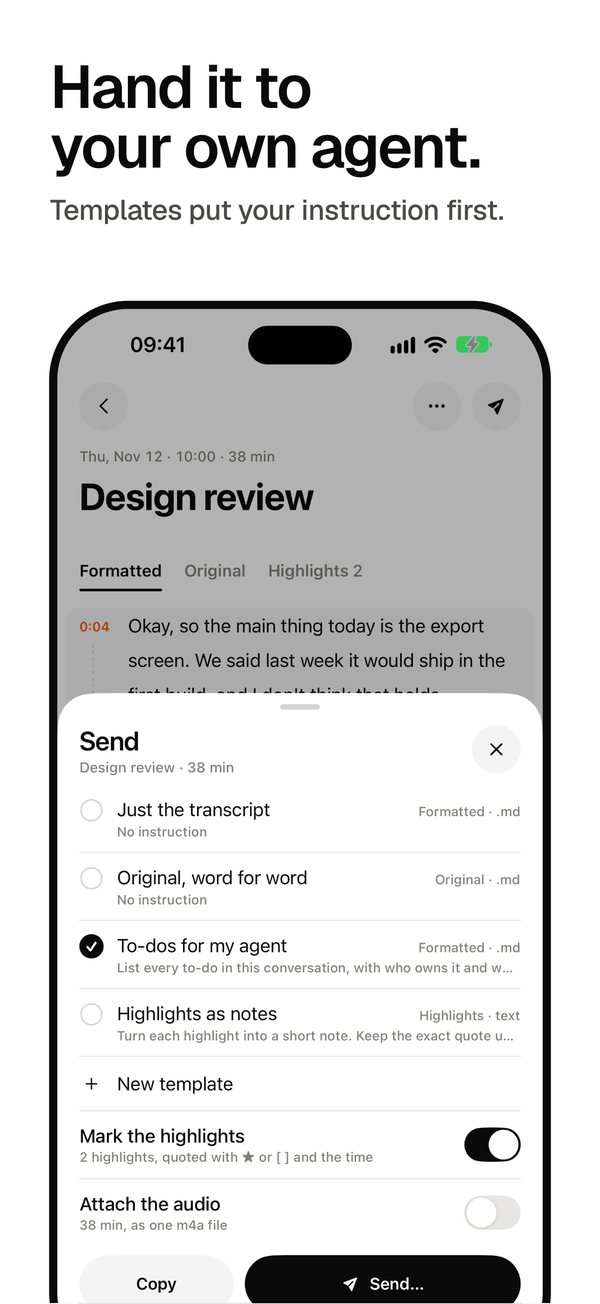
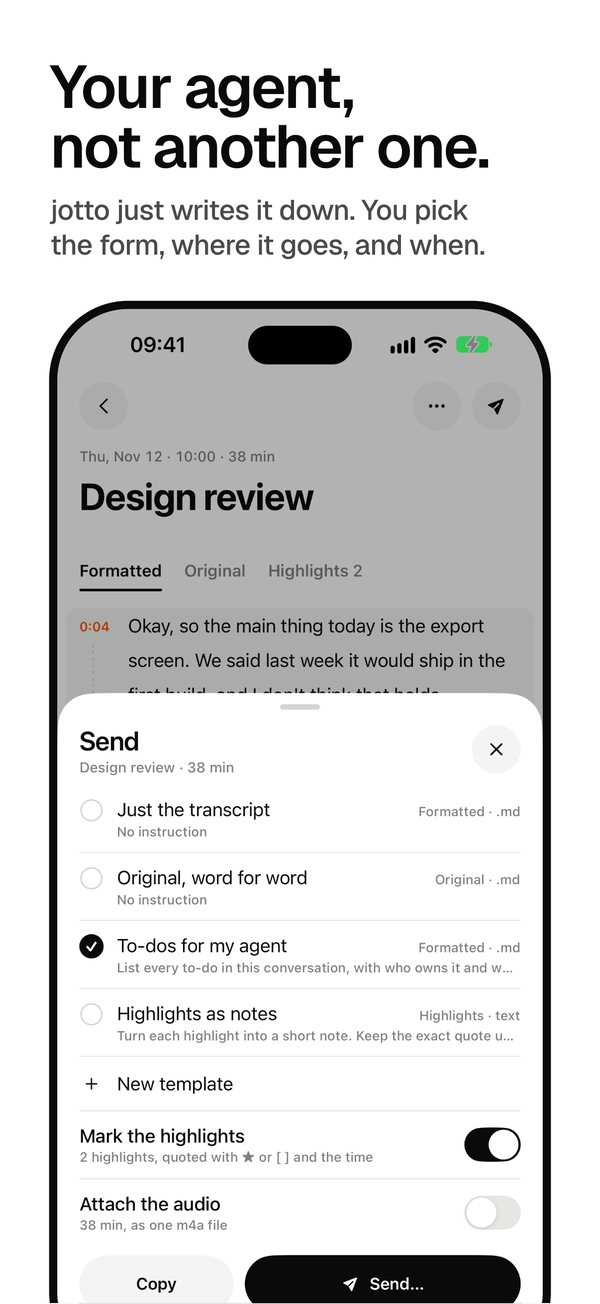
README screenshot 05: your agent, not another one

Changed region(s): [[0.09, 0.0307, 0.84, 0.2147]]

diff --git a/README.md b/README.md
@@ -24,7 +24,7 @@
   <img src=".github/readme/02-talk.jpg" width="32%" alt="Live: the timer, the record dot and the latest words">
   <img src=".github/readme/03-clean.jpg" width="32%" alt="A transcript, original view with the fillers struck through">
   <img src=".github/readme/04-mark.jpg" width="32%" alt="A transcript with highlights marked from the watch">
-  <img src=".github/readme/05-send.jpg" width="32%" alt="Send, with templates for your own agent">
+  <img src=".github/readme/05-send.jpg" width="32%" alt="Send: jotto writes it down, your own agent does the rest">
   <img src=".github/readme/06-private.jpg" width="32%" alt="Processing: on this iPhone or with your own API key">
 </p>
 
